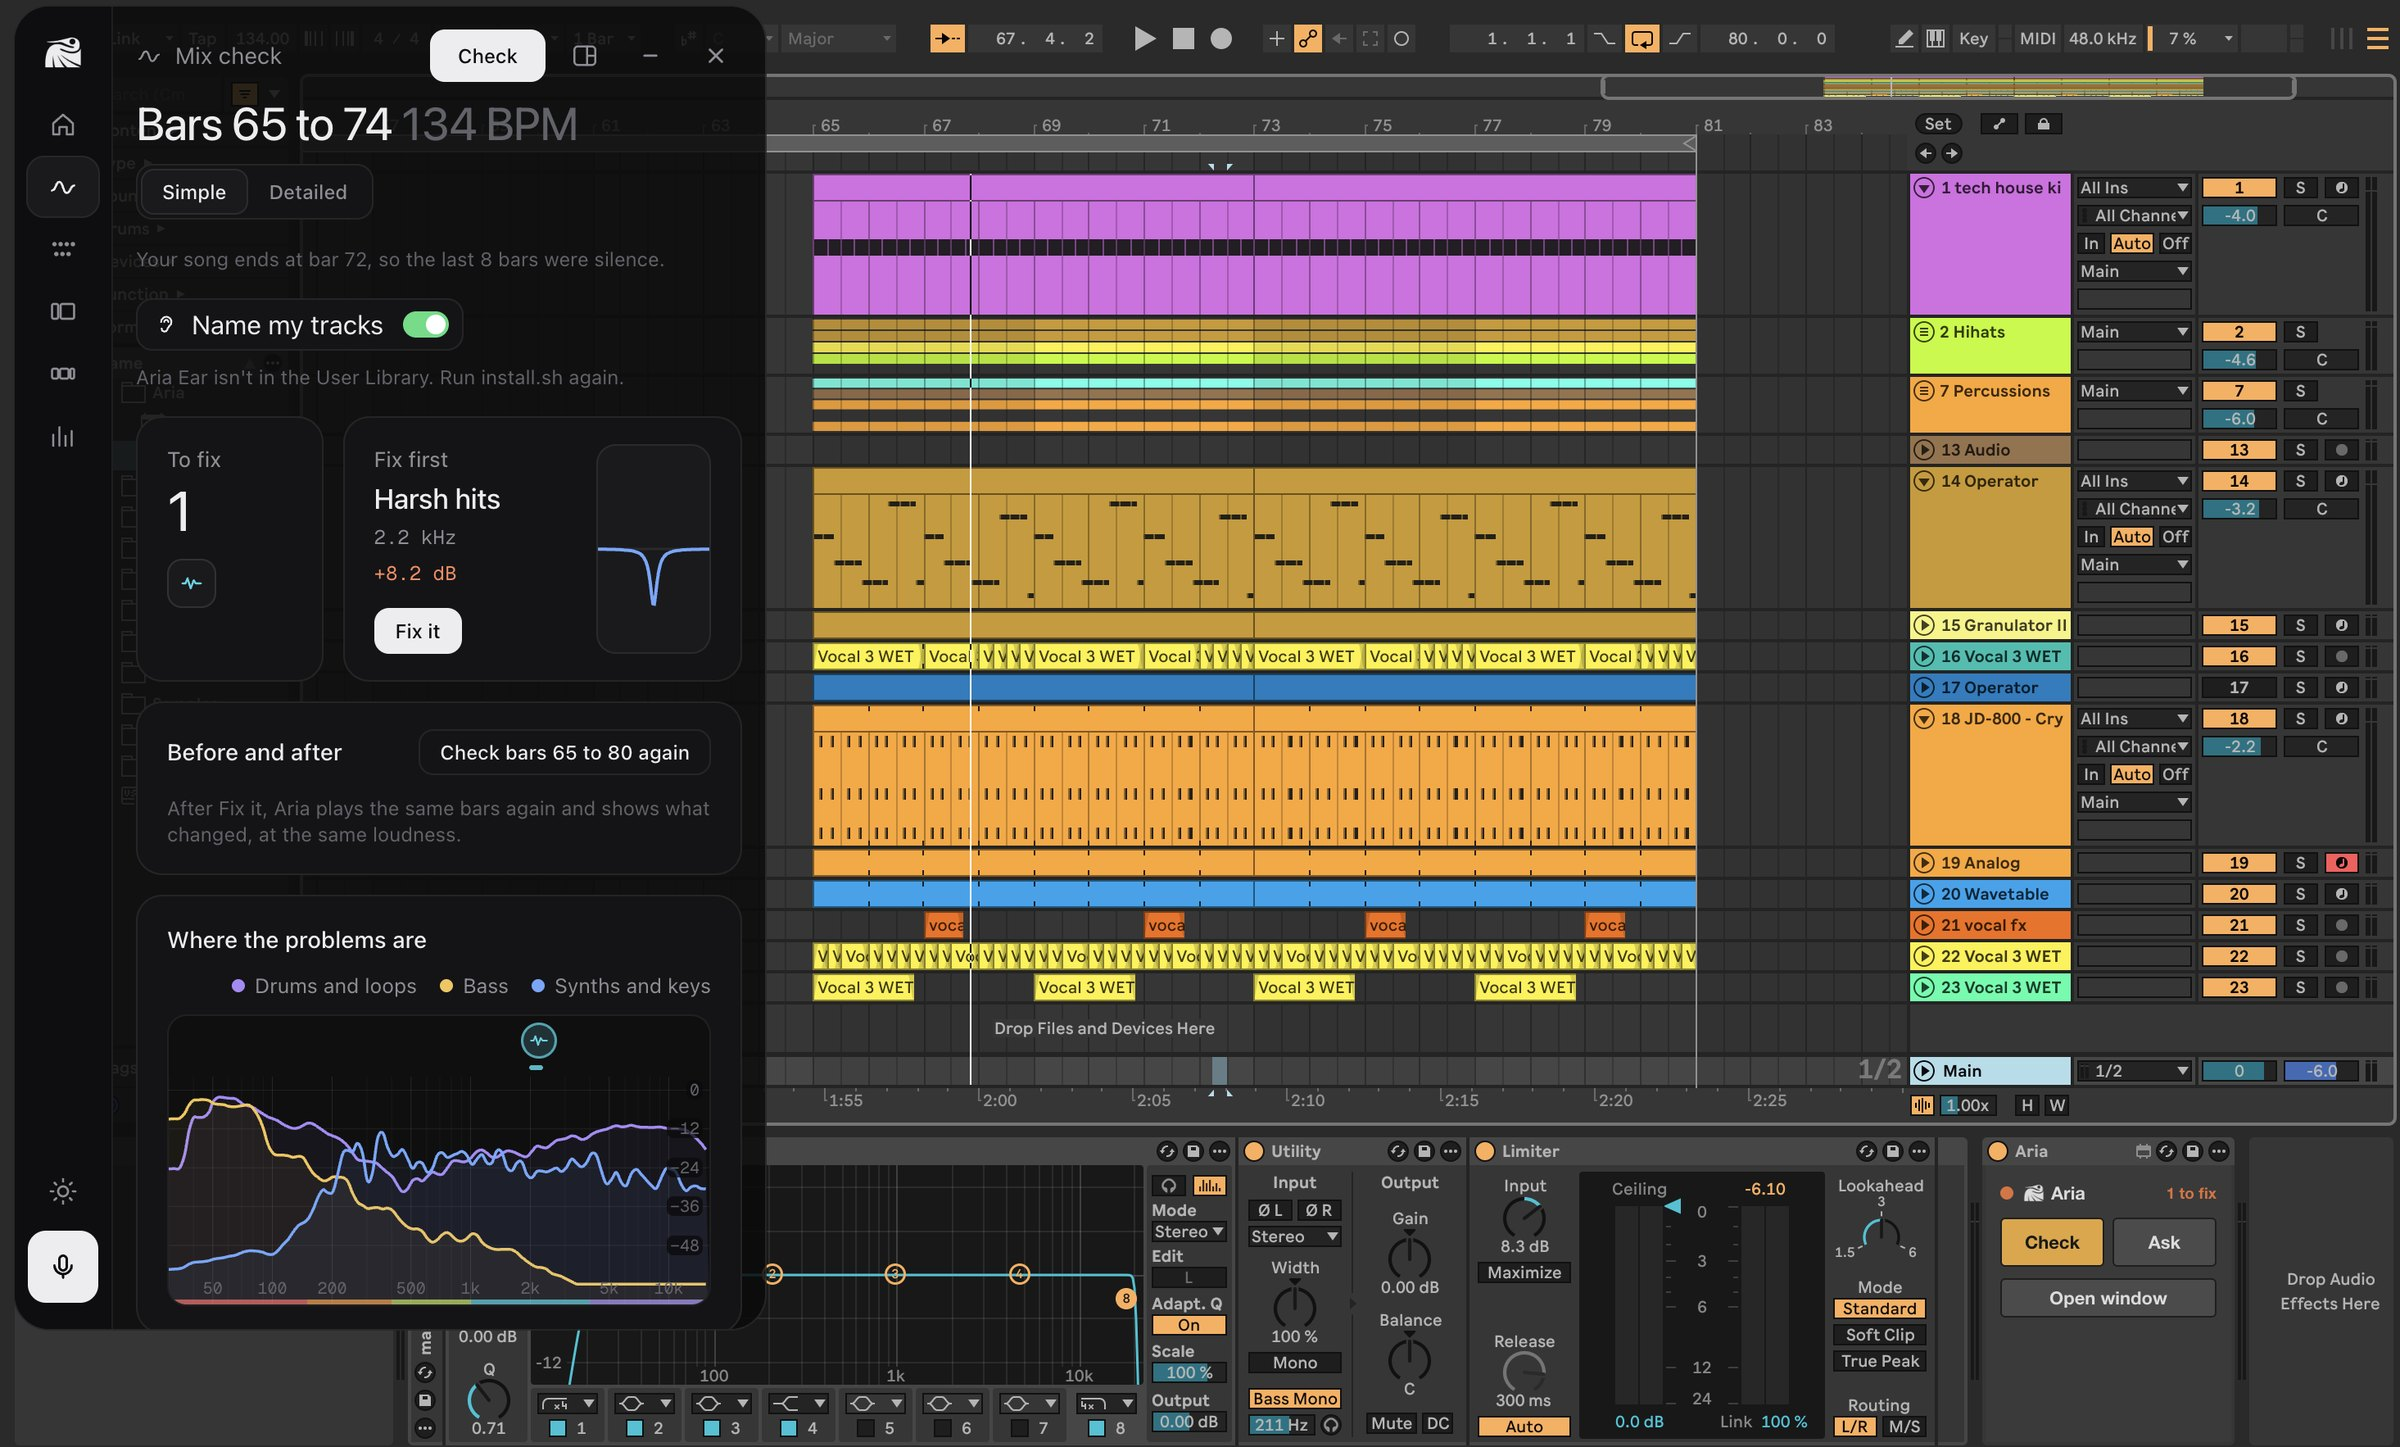
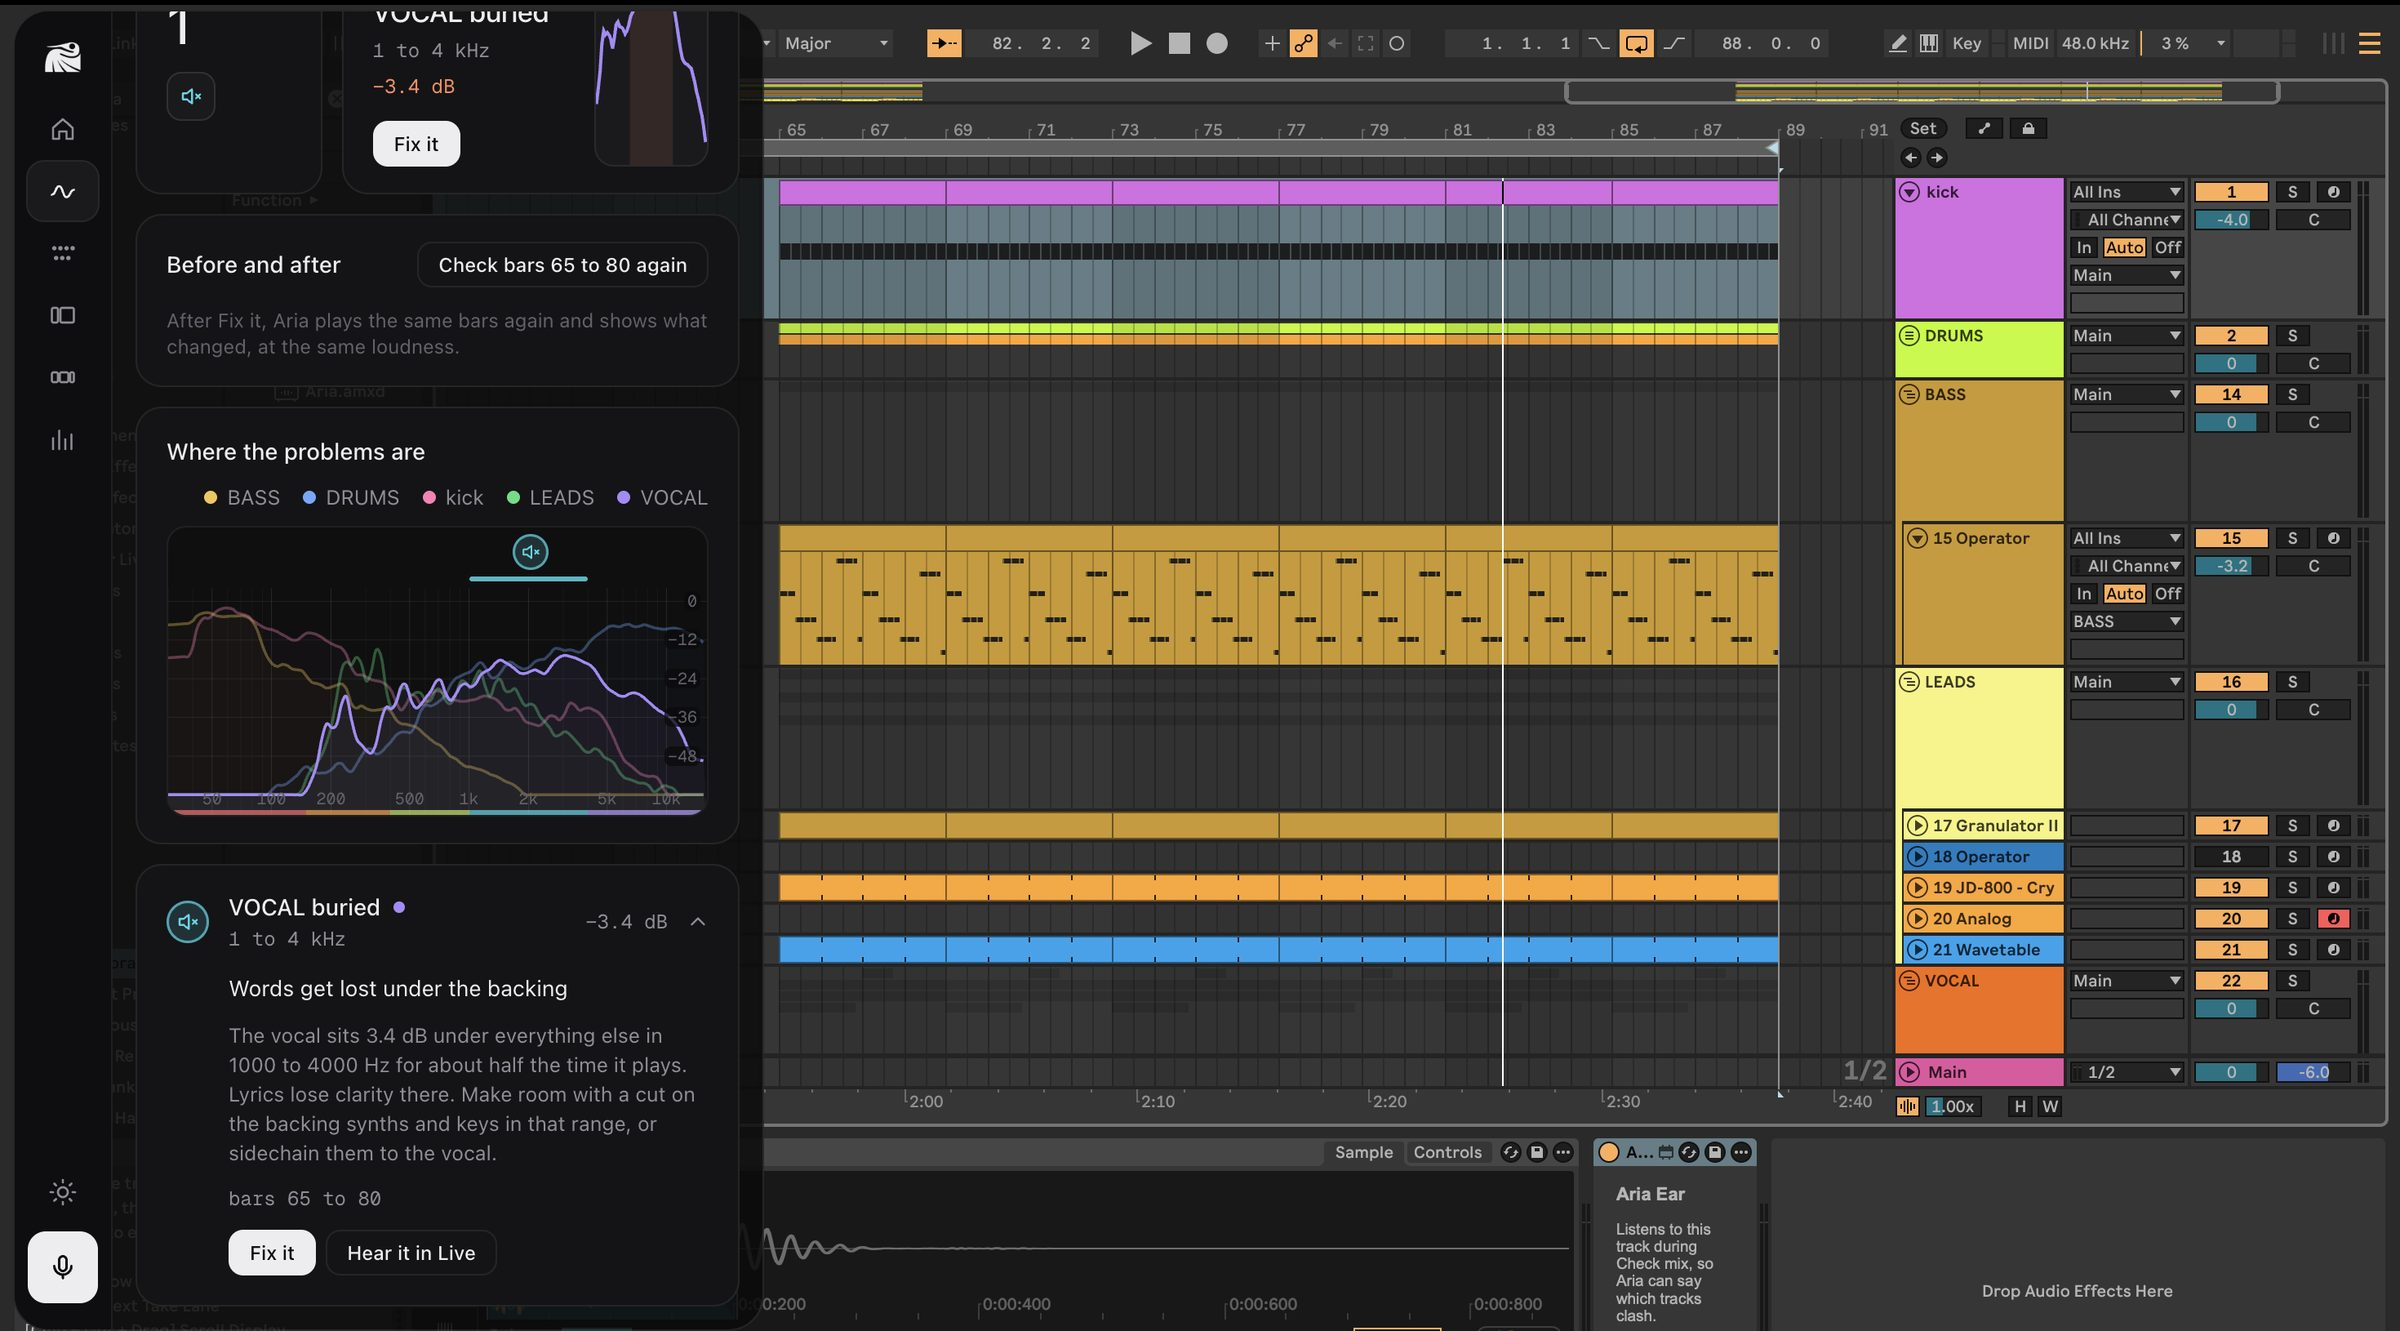
Judges' site: the hero is Ian's new screenshot, cropped to Aria and the arrangement
The new shot has no Aria Ear warning. The status bar and the device controls are cropped off.

diff --git a/judges/src/App.tsx b/judges/src/App.tsx
@@ -237,9 +237,9 @@ export default function App() {
         </>}
       >
         {/* A real screenshot of Aria in Live (Ian, Nov 1: "we can prob just use a real image"), in place of the drawing */}
-        <img src="/img/live-hero.jpg" alt="Aria in Ableton Live: Mix check docked on the left, the Aria device on the Main track at the bottom right"
-             width={2400} height={1447} className="block h-auto w-full rounded-[14px] border border-white/10 shadow-[0_40px_120px_-40px_rgba(0,0,0,0.9)]" />
-        <p className="mt-5 text-center text-[13px] text-faint">Aria in Ableton Live, on one of Ian's sessions. Mix check is docked on the left, and the Aria device sits on the Main track.</p>
+        <img src="/img/live-hero.jpg" alt="Aria in Ableton Live: Mix check docked on the left, showing a buried vocal, with Aria Ear on the kick track below"
+             width={2400} height={1331} className="block h-auto w-full rounded-[14px] border border-white/10 shadow-[0_40px_120px_-40px_rgba(0,0,0,0.9)]" />
+        <p className="mt-5 text-center text-[13px] text-faint">Aria in Ableton Live, on one of Ian's sessions. Mix check is docked on the left, where it found the vocal buried under the backing. Aria Ear sits on the kick track below.</p>
       </Hero>
 
       {DEMO_VIDEO && (
